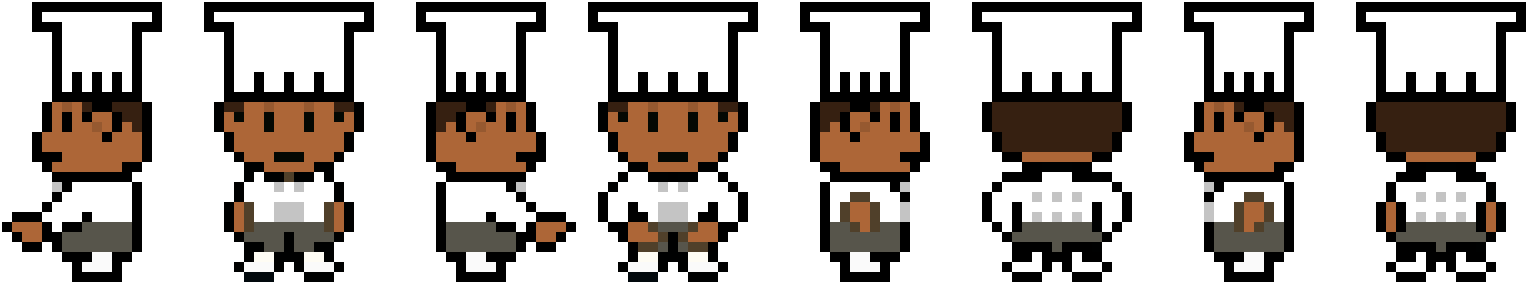
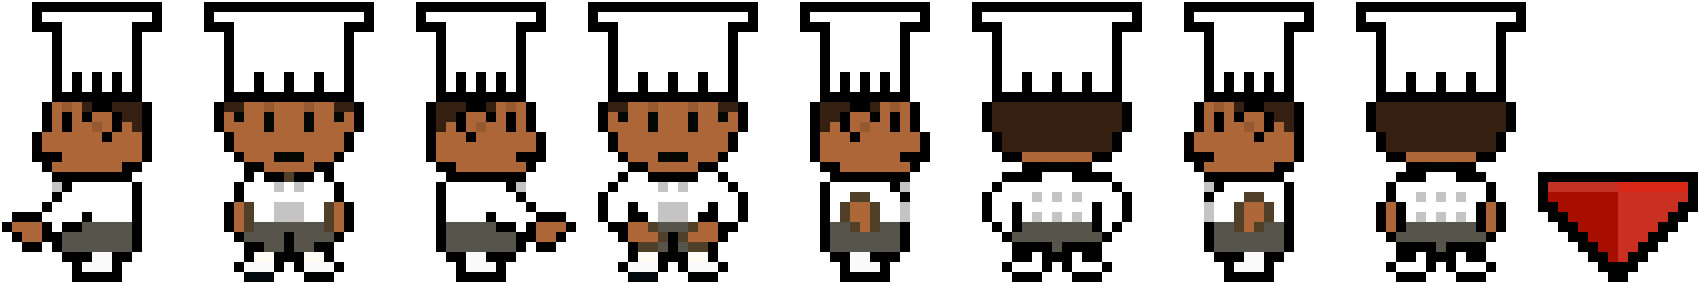
Added an arrow sprite to show which Cook you are controlling.

diff --git a/ENG1/core/src/cooks/Cook.java b/ENG1/core/src/cooks/Cook.java
@@ -22,6 +22,8 @@ public class Cook extends GameEntity {
 
     /** The cook's current sprite. */
     private Sprite sprite;
+    /** The control arrow sprite. */
+    private Sprite controlSprite;
     private GameSprites gameSprites;
     private CookInteractor cookInteractor;
     // private GameScreen gameScreen;
@@ -57,6 +59,7 @@ public class Cook extends GameEntity {
         this.speed = 10f;
         // this.gameScreen = gameScreen;
         this.gameSprites = GameSprites.getInstance();
+        this.controlSprite = gameSprites.getSprite(GameSprites.SpriteID.COOK,"control");
 
         // Initialize FoodStack
         this.foodStack = new FoodStack();
@@ -169,6 +172,13 @@ public class Cook extends GameEntity {
             sprite.draw(batch);
             renderFood(batch);
         }
+    }
+
+    public void renderControlArrow(SpriteBatch batch) {
+        controlSprite.setSize(32,22F);
+        controlSprite.setPosition(x-controlSprite.getWidth()/2,
+                y-controlSprite.getHeight()/4 + sprite.getHeight());
+        controlSprite.draw(batch);
     }
 
     /**

diff --git a/ENG1/core/src/game/GameScreen.java b/ENG1/core/src/game/GameScreen.java
@@ -202,6 +202,9 @@ public class GameScreen extends ScreenAdapter {
 
         for (GameEntity entity : gameEntities) {
             entity.render(batch);
+            if (entity == cook) {
+                ((Cook) entity).renderControlArrow(batch);
+            }
             entity.renderDebug(batch);
         }
 
@@ -210,11 +213,11 @@ public class GameScreen extends ScreenAdapter {
 
         for (GameEntity entity : gameEntities) {
             entity.renderShape(shape);
-            entity.renderShapeDebug(shape);
+            // entity.renderShapeDebug(shape);
         }
 
         shape.end();
-        box2DDebugRenderer.render(world, camera.combined.scl(PPM));
+        //box2DDebugRenderer.render(world, camera.combined.scl(PPM));
         gameHud.render();
 
     }
